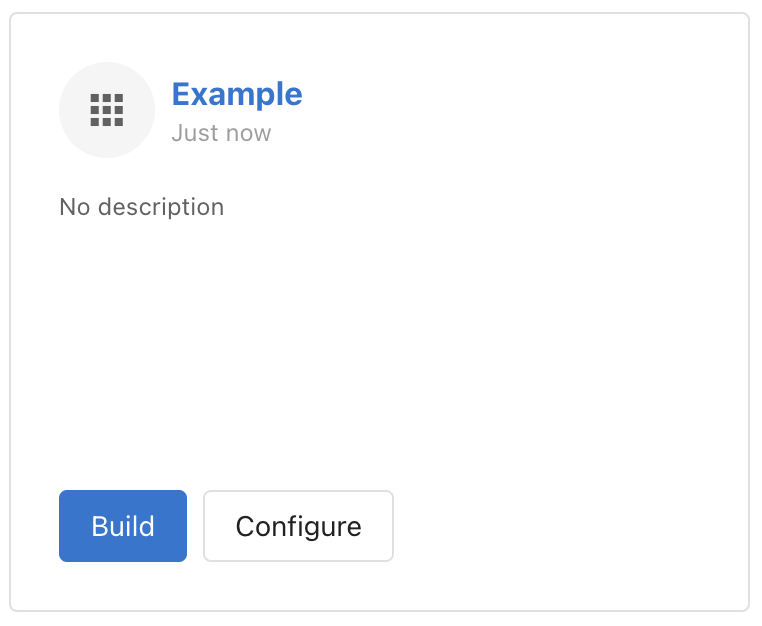
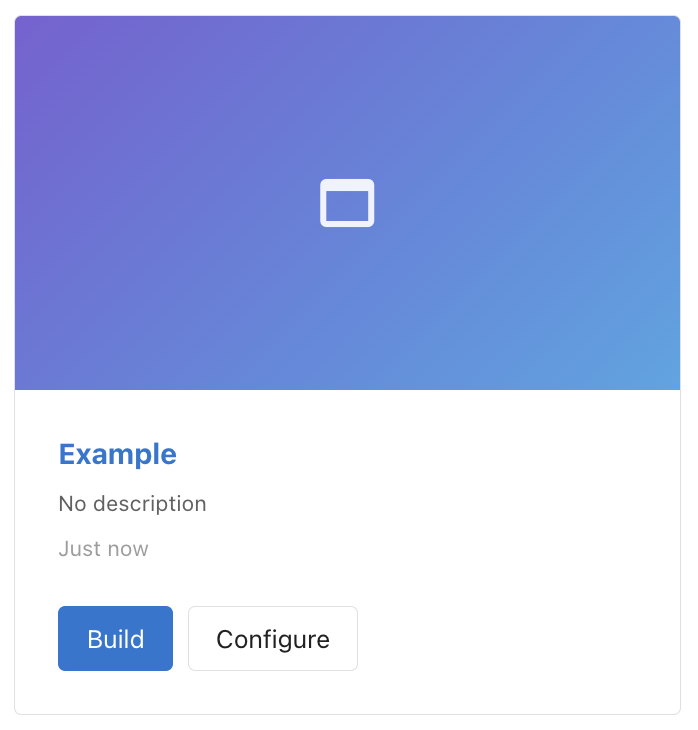
docs: update Vibe connectors index and replace forms connector screenshots

diff --git a/docusaurus/docs/business-app/ai/vibe/guides/connectors/index.md b/docusaurus/docs/business-app/ai/vibe/guides/connectors/index.md
@@ -8,15 +8,16 @@ unlisted: false
 
 Connectors let your Vibe-built app do real work, not just look like it could. Each connector is a thin layer over a Business App service: instead of mocking a contact form or hardcoding a fake login button, the generated UI hooks into the live platform feature behind it. You ask for the behavior in plain English; the supervisor agent activates the connectors that are turned on for your project.
 
-There are three connectors today:
+There are four connectors today:
 
 - [Single sign-on](./single-sign-on.md) — let your customers sign in with their existing account.
 - [Forms](./forms) — capture form submissions from your app.
 - [Analytics](./analytics.md) — surface in-app metrics for signed-in users.
+- [Supabase](./supabase.md) — connect your app to a Supabase database.
 
 ## Enabling a connector
 
-Connectors are managed per project, in **Project Settings**. Open a project, click the settings icon in the toolbar, and scroll to **Shared connectors**. Toggle a connector on to make it available to every prompt in the project; toggle it off to remove it from the supervisor agent's options.
+Connectors are managed per project. You can access them two ways: from the projects list, click **Configure** on the project card; or inside a project, click **+** in the chat box and select **Connectors**. Toggle a connector on to make it available to every prompt in the project; toggle it off to remove it from the supervisor agent's options.
 
 ![Vibe Project Settings page showing the Overview card and the Shared connectors section with Single sign-on, Forms, and Analytics each toggled on](../../img/project-settings.png)
 